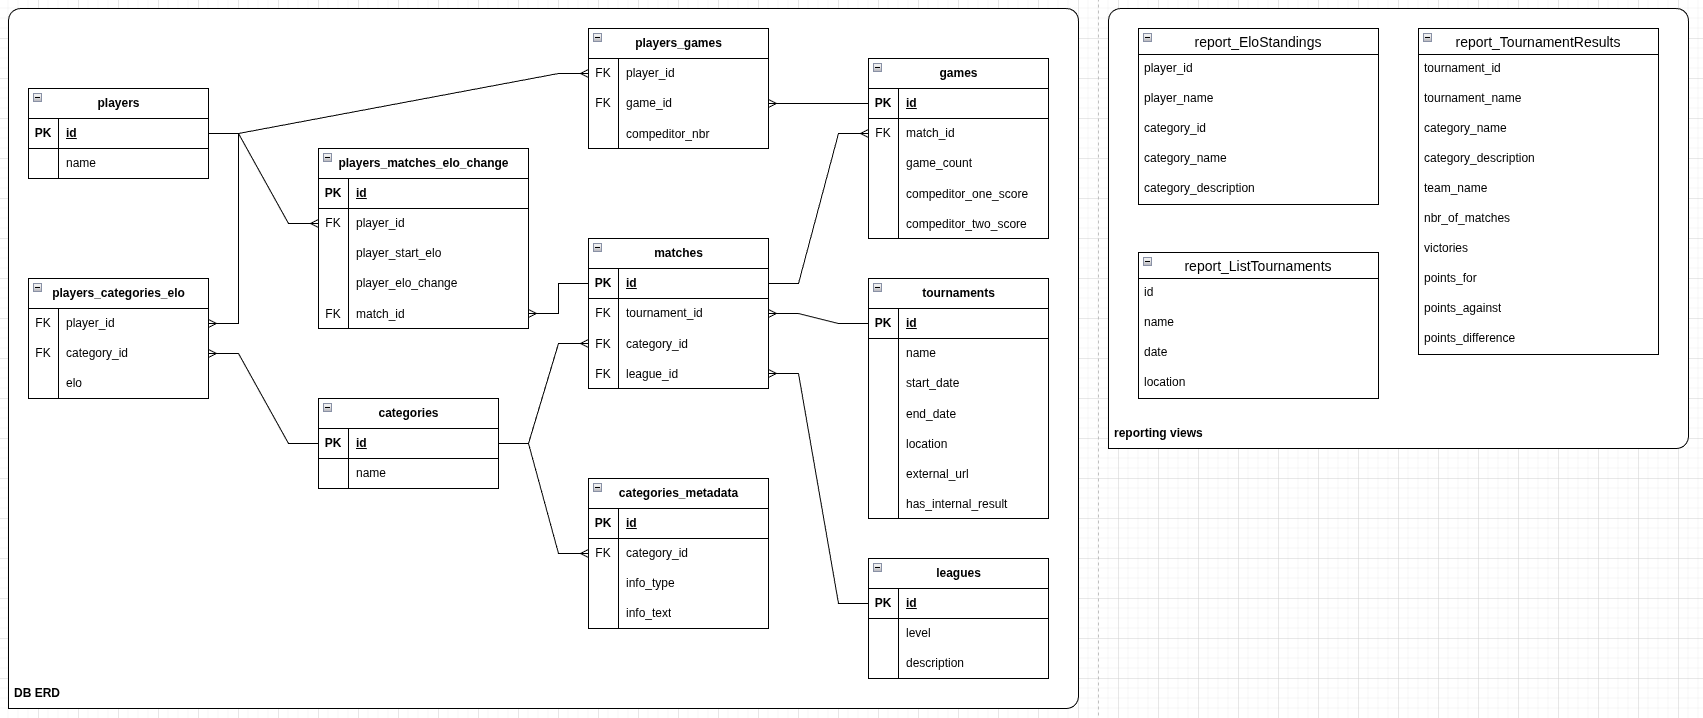
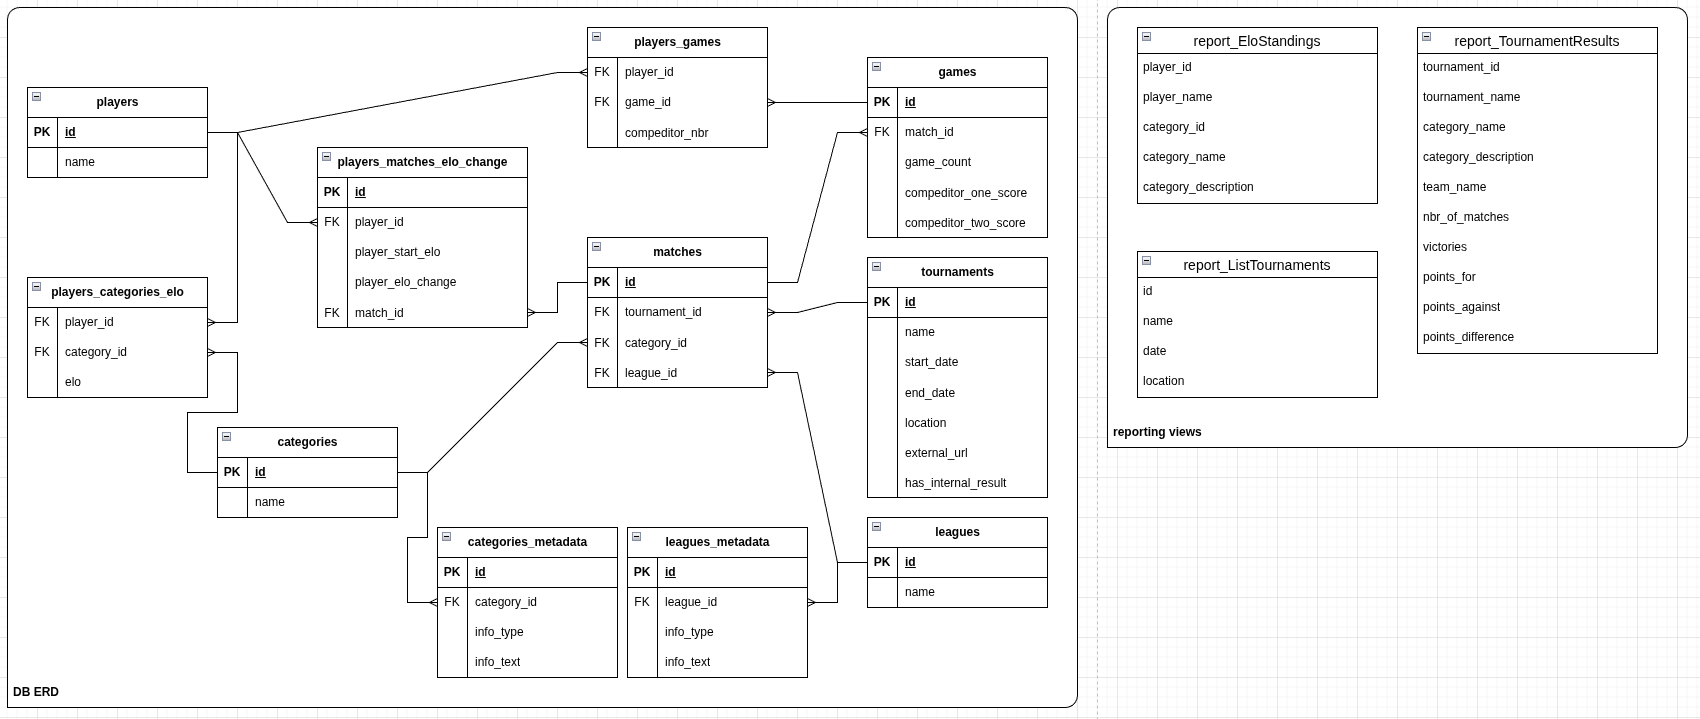
default elo values added to leagues metadata and used as the default value for players new entry in a given category

diff --git a/src/BSC/Database/db.py b/src/BSC/Database/db.py
@@ -72,15 +72,29 @@ class DB():
                     updated_data_list.append(final_tuple)
                 cur.executemany("INSERT INTO categories_metadata (info_type, info_text, category_id) VALUES (?,?,?)", updated_data_list)
         if self.add_default_leagues:
-            #TODO better logic for leagues information, probably metadata table like categories
-            leagues_data = [("0","meistriliiga",),
-                            ("1","esiliiga",),
-                            ("2","2. liiga",),
-                            ("3","3. liiga",),
-                            ("4","4. liiga",),
-                            ("5","rahvaliiga a",),
-                            ("6","rahvaliiga b",)]
-            cur.executemany("INSERT INTO leagues (level, description) VALUES(?,?)", leagues_data)
+            leagues_data = [("meistriliiga",),
+                            ("esiliiga",),
+                            ("2. liiga",),
+                            ("3. liiga",),
+                            ("4. liiga",),
+                            ("rahvaliiga a",),
+                            ("rahvaliiga b",)]
+            cur.executemany("INSERT INTO leagues (name) VALUES(?)", leagues_data)
+            leagues_metadata = {1:[("default ELO", "3000")],
+                                2:[("default ELO", "2500")],
+                                3:[("default ELO", "2000")],
+                                4:[("default ELO", "1500")],
+                                5:[("default ELO", "1000")],
+                                6:[("default ELO", "750")],
+                                7:[("default ELO", "500")]}
+            for league_id, data_list in leagues_metadata.items():
+                updated_data_list = []
+                for data_item in data_list:
+                    temp_list = list(data_item)
+                    temp_list.append(league_id)
+                    final_tuple = tuple(temp_list)
+                    updated_data_list.append(final_tuple)
+                cur.executemany("INSERT INTO leagues_metadata (info_type, info_text, league_id) VALUES (?,?,?)", updated_data_list)
         con.commit()
         con.close()
 
@@ -195,19 +209,22 @@ class DB():
         league_id = None
         con = sqlite3.connect(self.db_name)
         cur = con.cursor()
-        res = cur.execute("SELECT id FROM leagues WHERE description = '" + league_str + "'")
+        res = cur.execute("SELECT id FROM leagues WHERE name = '" + league_str + "'")
         league_id = res.fetchone()
         if league_id is None:
             raise Exception("No valid league found")
         con.close()
         return league_id[0]
 
-    def GetOrAddPlayer(self, name, category_id):
+    def GetOrAddPlayer(self, name, category_id, league_id):
         #TODO this function is a mess and needs to be cleaned up
+
         self.output.write(self.verbose, "INFO", "DB:GetOrAddPlayer", message=f"getting or adding player '{name}' to DB")
         result = None
         con = sqlite3.connect(self.db_name)
         cur = con.cursor()
+        res = cur.execute("SELECT info_text FROM leagues_metadata WHERE league_id = '" + league_id + "' AND info_type = 'default ELO'")
+        default_ELO = int(res.fetchone()[0])
         res = cur.execute("SELECT * FROM players WHERE name = '" + name + "'")
         result = res.fetchone() #note to self, fetchone removes the content form the result variable res, likely same with fetchall
         if result is None:
@@ -216,7 +233,7 @@ class DB():
             res = cur.execute("INSERT INTO players (name) VALUES (?)", player_data)
             res = cur.execute("SELECT id FROM players ORDER BY id DESC LIMIT 1")
             player_id = res.fetchone()[0]
-            elo_data = (player_id, category_id, 1000,) #TODO initial elo value of 1000 should be some configuration file, and maybe even modifiable based on what leage new player starts in.
+            elo_data = (player_id, category_id, default_ELO,)
             cur.execute("INSERT INTO players_categories_elo (player_id, category_id, elo) VALUES (?,?,?)", elo_data)
             con.commit()
             res = cur.execute("SELECT p.id, p.name, pce.elo FROM players p JOIN players_categories_elo pce ON p.id = pce.player_id WHERE pce.category_id = " + category_id + " AND p.name = '" + name + "'")
@@ -229,7 +246,7 @@ class DB():
         result = res.fetchone() #note to self, fetchone removes the content form the result variable res, likely same with fetchall
         if result is None:
             self.output.write(self.verbose, "INFO", "DB:GetOrAddPlayer", message=f"player found in db but no ELO for category id {category_id}, creating a new entry")
-            elo_data = (player_id, category_id, 1000,) #TODO initial elo value of 1000 should be some configuration file, and maybe even modifiable based on what leage new player starts in.
+            elo_data = (player_id, category_id, default_ELO,)
             cur.execute("INSERT INTO players_categories_elo (player_id, category_id, elo) VALUES (?,?,?)", elo_data)
             con.commit()
             res = cur.execute("SELECT p.id, p.name, pce.elo FROM players p JOIN players_categories_elo pce ON p.id = pce.player_id WHERE pce.category_id = " + category_id + " AND p.name = '" + name + "'")
@@ -409,7 +426,7 @@ WHERE tournament_id = """ + str(tournament_id)
     def ss_AllPlayersELOrank(self):
         con = sqlite3.connect(self.db_name)
         cur = con.cursor()
-        query = """SELECT p.name, pce.elo, c.name, c.description
+        query = """SELECT p.name, pce.elo, c.name
 FROM players p
 JOIN players_categories_elo pce ON p.id = pce.player_id
 JOIN categories c ON c.id = pce.category_id
@@ -427,7 +444,7 @@ ORDER BY c.name, pce.elo DESC"""
                     if category_name != "":
                         out_file.write("\t</tbody>\n</table>\n")
                     category_name = item[2]
-                    category_desc = item[3]
+                    category_desc = item[2]
                     out_file.write(f"<p>Rankings for category: '{category_desc}'</p>\n")
                     out_file.write("<table class=\"table table-bordered table-striped\">\n")
                     out_file.write("\t<thead>\n\t\t<tr>\n\t\t\t<th>Player</th>\n\t\t\t<th>ELO</th>\n\t\t</tr>\n\t</thead>\n")

diff --git a/src/BSC/GameHandler/handler.py b/src/BSC/GameHandler/handler.py
@@ -10,6 +10,7 @@ class Handler():
         self.verbose = verbose
         self.output = output
         self.database_obj = database_obj
+        self.league_id = None
 
     def runGamesParser(self, raw_matches_list, tournament_id):
         converted_all_matches_list = [] #same list of matches list of dictionaries but content will be Teams objects that have set of player db_id-s
@@ -121,7 +122,7 @@ class Handler():
         #TODO add verbose logging here
 
         def getPlayerObj(player_str, category_id):
-            player_db_entry = self.database_obj.GetOrAddPlayer(player_str.strip(), str(category_id))
+            player_db_entry = self.database_obj.GetOrAddPlayer(player_str.strip(), str(category_id), str(self.league_id))
             player_obj = Player(player_db_entry[0], player_db_entry[1], category_id, player_db_entry[2])
             return player_obj
 
@@ -129,7 +130,8 @@ class Handler():
 
         for raw_match_obj in raw_matches_list:
             category_id = self.database_obj.GetCategory(raw_match_obj.category)
-            league_id = self.database_obj.GetLeague(raw_match_obj.league.lower())
+            self.league_id = self.database_obj.GetLeague(raw_match_obj.league.lower())
+
 
             if "+" in raw_match_obj.team_one:
                 team_one_player_str_list = raw_match_obj.team_one.split("+")
@@ -157,7 +159,7 @@ class Handler():
                     losing_team_obj = Team([p1_player_obj])
 
 
-            match_data_to_db = (tournament_id, category_id, league_id)
+            match_data_to_db = (tournament_id, category_id, self.league_id)
             match_id = self.database_obj.AddMatch(match_data_to_db)
 
             games_count = len(raw_match_obj.team_one_scores)

diff --git a/src/BSC/Database/sql_001.py b/src/BSC/Database/sql_001.py
@@ -29,8 +29,15 @@ db_up = {
 )""",
 "leagues": """CREATE TABLE "leagues" (
 	"id"	INTEGER NOT NULL UNIQUE,
-	"level"	TEXT NOT NULL,
-	"description"	TEXT NOT NULL,
+	"name"	TEXT NOT NULL UNIQUE,
+	PRIMARY KEY("id" AUTOINCREMENT)
+)""",
+"leagues_metadata": """CREATE TABLE "leagues_metadata" (
+	"id"	INTEGER NOT NULL UNIQUE,
+	"league_id"	INTEGER NOT NULL,
+	"info_type"	TEXT NOT NULL,
+	"info_text"	TEXT NOT NULL,
+	FOREIGN KEY("league_id") REFERENCES "leagues"("id"),
 	PRIMARY KEY("id" AUTOINCREMENT)
 )""",
 "matches": """CREATE TABLE "matches" (
@@ -140,6 +147,7 @@ db_down = {
 "categories": """DROP TABLE categories""",
 "categories_metadata": """DROP TABLE categories_metadata""",
 "leagues": """DROP TABLE leagues""",
+"leagues_metadata": """DROP TABLE leagues_metadata""",
 "matches": """DROP TABLE matches""",
 "games": """DROP TABLE games""",
 "players_categories_elo": """DROP TABLE players_categories_elo""",

diff --git a/src/main.py b/src/main.py
@@ -230,6 +230,7 @@ class Main():
         test_url_1 = "https://www.tournamentsoftware.com/tournament/dd30e793-b978-4ad4-83cb-3459de20b11b"
         test_url_2 = "https://www.tournamentsoftware.com/tournament/FA21631F-AB1E-49B0-80C3-C67CAB546CBB"
         test_url_list = [test_url_1, test_url_2]
+        database_obj = None
         for test_url in test_url_list:
             output = Output("console")
             scraper = WebScraper(test_url, output, verbose=verbose)
@@ -242,7 +243,7 @@ class Main():
             gamesHandler = Handler(database_obj, output, verbose=verbose)
             tournament_id = database_obj.AddTournament((tournament_name, tournament_start_date, tournament_end_date, "location to be extracted", test_url, False))
             gamesHandler.runHandler(matches_list, tournament_id)
-
+        database_obj.ss_AllPlayersELOrank()
         sys.exit(0)
 
 

diff --git a/README.md b/README.md
@@ -188,7 +188,9 @@ Example of getting whole players ELO standing ranking report in JSON frormat: `p
 - Database structure modified with new tables and some additional columns in tournaments tables
 - New setup for creating default categories(standard categories setup that badminton has)
 - DB creation has optional flag to create default leages based on Estonian badminton leage structure
-- Initial fixes for reporting views so they would work again
+- Leagues metadata table holds the default start ELO value for new players starting first time
+- Default ELO values are used for players first time entry in a given category
+- Initial fixes for reporting views so they would work again after DB structure modifications
 - New Games Handler functionality with different workflow that can handle multiple categories in the same tournament
 - Small modification to Teams object so it would work with new Games Handler logic
 - New Skill Calculator object to work with the modified Games Handler logic
